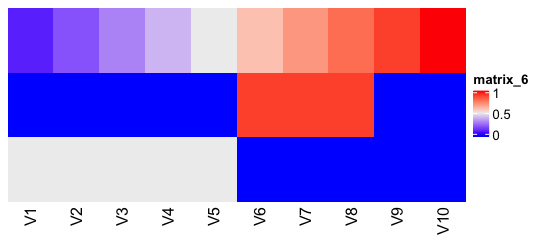
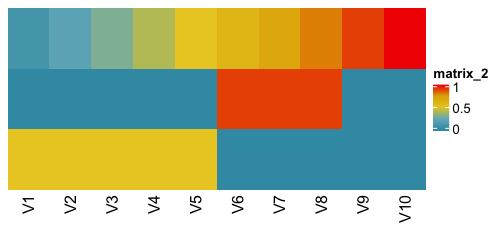
update

diff --git a/README.md b/README.md
@@ -29,7 +29,8 @@ We generated a synthetic SNP profile (see `data-raw/syn.R` and `data(syn)`) whic
 
 ```r
 data(syn)
-ComplexHeatmap::Heatmap(syn, show_row_dend = F, cluster_columns = F)
+ComplexHeatmap::Heatmap(name = "", syn, show_row_dend = F, cluster_columns = F,
+  col = wesanderson::wes_palette("Zissou1", 21, type = "continuous"))
 ````
 
 ![layout synthetic experiment](man/figures/syn.png)
@@ -40,17 +41,18 @@ In detail, the syntethic datasets consists of sets of SNPs that
 - are only present in a subset of samples (V6 - V8) with a high AF
 - are only present in a subset of samples (V1 - V5) with a low AF
 
-
 We evaluate the number of Haplotpyes present in this dataset using `assessNumberHaplotyes`
 
 ```r
 set.seed(42)
 data(syn)
-gof <- assessNumberHaplotyes(syn, 2:6, nReplicates = 1)
+gof <- assessNumberHaplotyes(syn, 2:3, nReplicates = 3)
 plotNumberHaplotyes(gof)
 ```
 
-We see that the larged fraction of explained variance is reached for 3 haplotpyes, which is equal to the ground truth. We can use this number to recover the haplotypes using `findHaplotypes`
+![explained variance of decomposed haplotypes on synthetic sample](man/figures/syn_gof.png)
+
+We see that the larged fraction of explained variance (~100%) is reached for 3 haplotpyes, which is equal to the ground truth. We can use this number to recover the haplotypes using `findHaplotypes`
 
 ```r
 decomposed <- findHaplotypes(syn, 3)
@@ -64,6 +66,8 @@ Which correctly identifies that H1-3 are not sharing any SNPs
 plotSamples(decomposed, normalize = F)
 ```
 
+![decomposed haplotypes on synthetic sample](man/figures/syn_decomp.png)
+
 Which correctly identifies that a haplotype (here H3) is present in samples V1 - V5 in equal proportions, a second haplotype H2 is present on samples V6-V8 and a third haplotpye H1 is present on all samples and is increasing in its contribution.
 
 ## Haplotype detection on real data
@@ -71,7 +75,6 @@ Which correctly identifies that a haplotype (here H3) is present in samples V1 -
 Here we show how HaplotypeDeconstructor can be applied on a SNP profile we get after applying LoFreq on a collection of samples we took from the OligoMM community on different mouse and on different time points. 
 
 ```r
-library(HaplotypeDeconstructor)
 data(omm)
 dim(omm)
 [1] 1691   134
@@ -81,18 +84,18 @@ Here, we have 134 studies of which we have 1691 SNPs in total for the genome _Ak
 
 ```r
 # check how many haplotypes are in the community
-gof <- assessNumberHaplotyes(omm, 2:15, nReplicates = 1) # this can take a while since it will evaluate many NMFs
+gof <- assessNumberHaplotyes(omm, 2:10, nReplicates = 1) # this can take a while since it will evaluate many NMFs
 plotNumberHaplotyes(gof)
 ggsave("gof2.png", width = 8, height = 5)
 ```
 
-Will evaluate 2 to 30 haplotypes and output a graphic similar to this:
+Will evaluate 2 to 10 haplotypes and output a graphic similar to this:
 
 
-Based on this figure it seems that there are around 14 haplotypes present, so we do the final decomposition.
+Based on this figure it seems not clear how many Haplotypes are in this sample.
 
 ```r
-decomposed <- findHaplotypes(omm, 14)
+decomposed <- findHaplotypes(omm, 8)
 plotHaplotypeMap(decomposed)
 ```
 
@@ -113,7 +116,7 @@ and the normalized version
 
 ```r
 plotSamples(decomposed, normalize = T, remove.sample.names =T)
-ggsave("decomposed_2.png", width = 8, height = 10)
+ggsave("man/figures/decomposed_2.png", width = 8, height = 10)
 ```
 
 ![Relative decomposed contributions](man/figures/decomposed_2.png)
@@ -122,17 +125,17 @@ Now we can better organize the by additional metadata groups
 
 ```r
 data(omm_metadata)
-plotSamplesByGroup(decomposed, omm_metadata, normalize = F, percent = T)
-ggsave("bygroup.png", width = 9, height = 25)
+plotSamplesByGroup(decomposed, omm_metadata, normalize = T)
+ggsave("man/figures/bygroup.png", width = 9, height = 25)
 ```
 
-![Contributions by group](man/figures/sampleplot.png)
+![Contributions by group](man/figures/bygroup.png)
 
 We can visualize the SNP annotations for each Haplotype
 
 ```r
 data(omm_snp_annotation)
-plotHaplotypeAnnotation(decomposed, omm_snp_annotation, sig_threshold = 0.1)
+plotHaplotypeAnnotation(decomposed, omm_snp_annotation, hide_hyp = T, sig_threshold = 0.05)
 ggsave("haplotypefunction.png", width = 12, height = 12)
 ```
 
